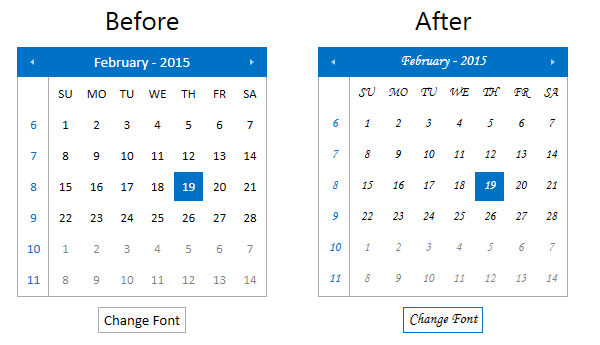
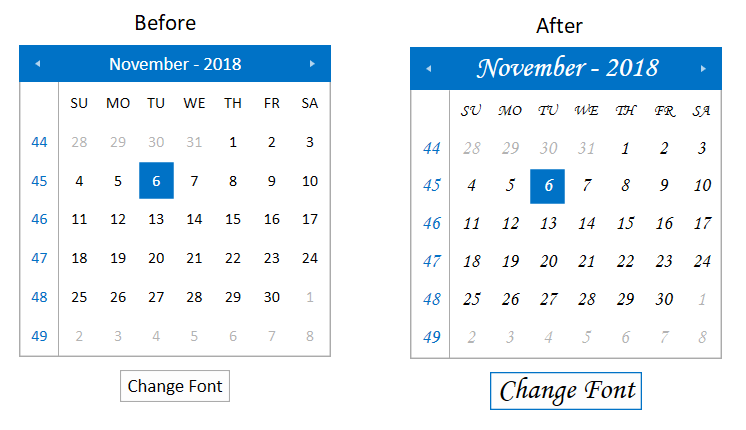
Office2013 theme article: dynamically changing FontSize example update

diff --git a/styling-and-appearance/themes-suite/common-styling-appearance-office2013-theme.md b/styling-and-appearance/themes-suite/common-styling-appearance-office2013-theme.md
@@ -161,22 +161,17 @@ As the following example shows, you can change the default __FontFamily__ from "
 #### __XAML__
 {{region common-styling-appearance-office2013-theme_0}}
 	<StackPanel>
-		<StackPanel Orientation="Horizontal" HorizontalAlignment="Center">
-			<telerik:RadCalendar x:Name="Calendar" Width="250" Height="250" Margin="4 10"/>
-			<telerik:RadClock x:Name="Clock" Height="250" Margin="4 10" TimeInterval="0:0:1"/>
-		</StackPanel>
-		<telerik:RadButton x:Name="BtnChangeFontSize" VerticalAlignment="Center" 
-						   HorizontalAlignment="Center" Content="Change Font"
-						   Click="OnButtonChangeFontSizeClick" />
+		<telerik:RadCalendar x:Name="Calendar" Width="250" Height="250" Margin="4 10"/>
+		<telerik:RadButton HorizontalAlignment="Center" Content="Change Font" Click="OnButtonChangeFontSizeClick" />
 	</StackPanel>
-</StackPanel>
 {{endregion}}
 
 #### __C#__
 {{region common-styling-appearance-office2013-theme_4}}
 	private void OnButtonChangeFontSizeClick(object sender, RoutedEventArgs e)
 	{
-		Office2013Palette.Palette.FontSize = 16;
+		Office2013Palette.Palette.FontSizeL = 24;
+		Office2013Palette.Palette.FontSizeS = 16;
 		Office2013Palette.Palette.FontFamily = new FontFamily("MonoType Corsiva");
 	}
 {{endregion}}
